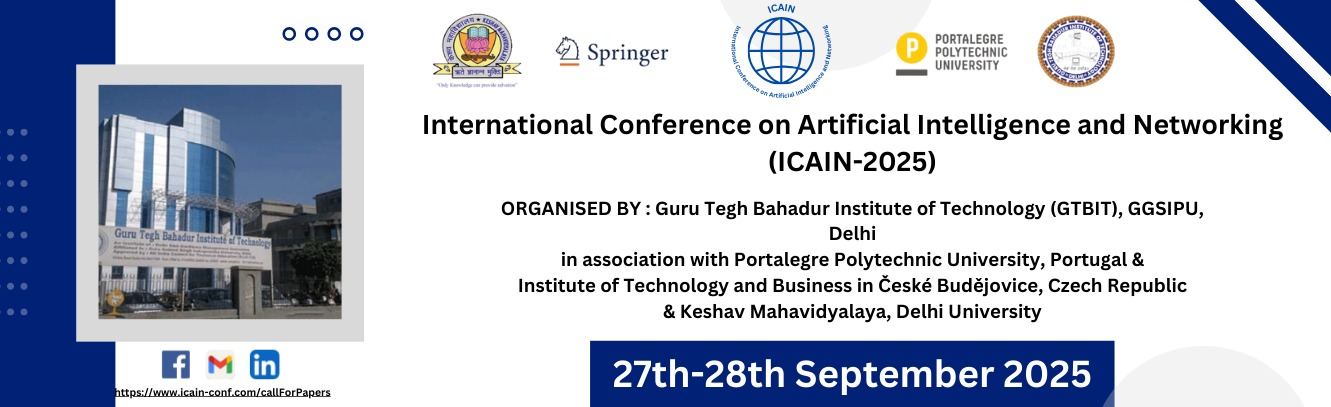
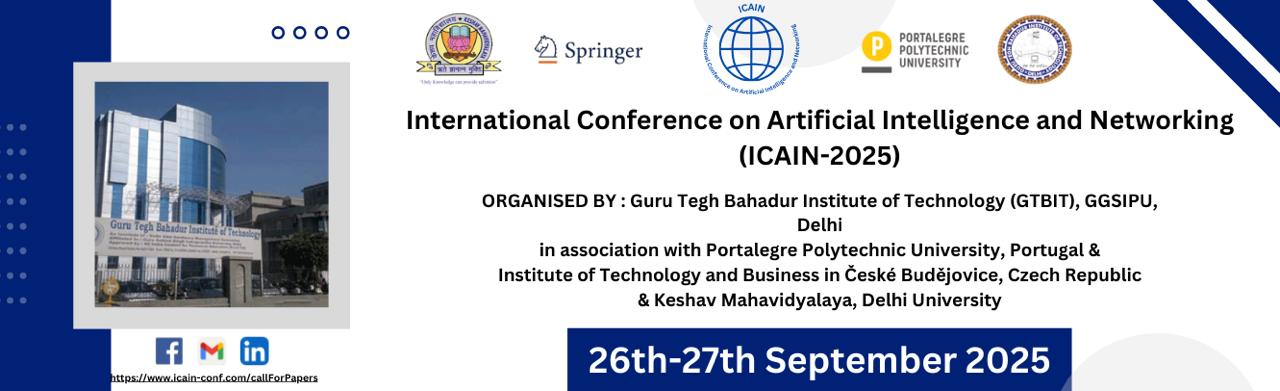
changes

diff --git a/src/Components/Header/header.jsx b/src/Components/Header/header.jsx
@@ -47,7 +47,7 @@ function HeaderMain() {
               <span className="hblue">Portalegre Polytechnic University, Portugal</span> & <br/><span className="hblue">Institute of Technology and Business in České Budějovice, Czech Republic</span><br/> &
               <span className="hblue"> Keshav Mahavidyalaya, Delhi University</span>
             </p>
-            <p className="hspringer">Springer LNNS Approved Conference (Indexed in Scopus, EI, WoS and Many More)</p>
+            <p className="hspringer">Springer LNNS (APPLIED) (Indexed in Scopus, EI, WoS and Many More)</p>
             {/* <p></p> */}
             <p>26th - 27th September 2025<br/><span style={{"color":"red"}}></span></p>
           </div>
